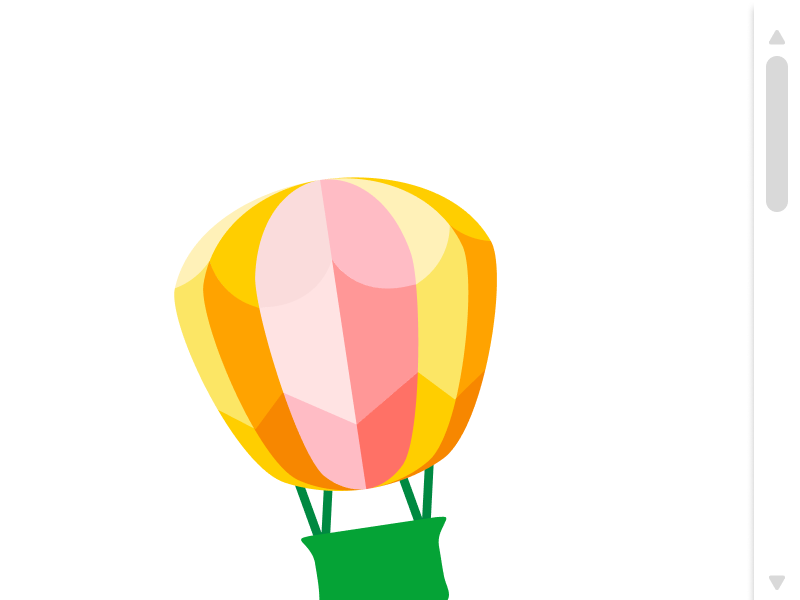
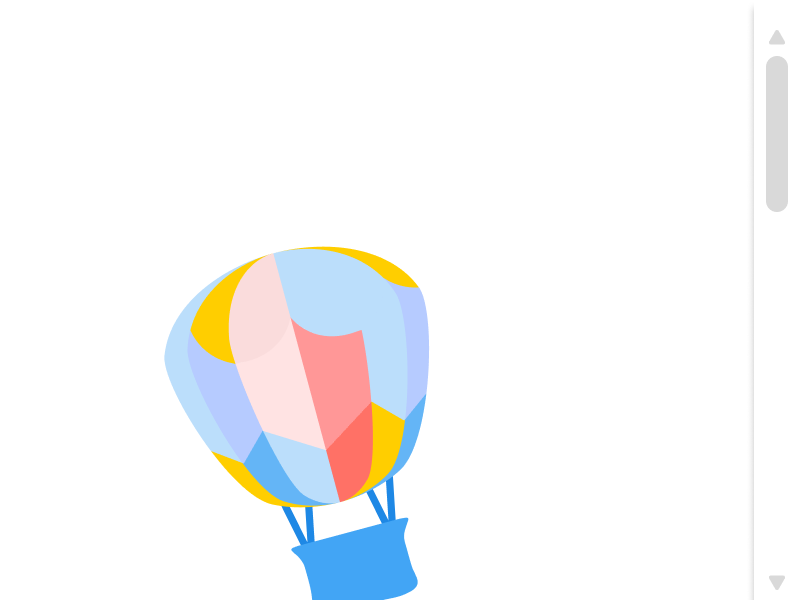
增加项目卡片，统一颜色

Changed region(s): [[0.1875, 0.27, 0.625, 1.0]]

diff --git a/pages/Ref/index.html b/pages/Ref/index.html
@@ -19,15 +19,14 @@
     <br>
     <!-- 上方标签区 -->
     <div role="tablist">
-        <!-- <button role="tab" aria-selected="true" aria-controls="Html" id="Html">Html</button> -->
+        
         <button role="tab" aria-selected="true" aria-controls="Css" id="Css">Css</button>
         <button role="tab" aria-selected="false" aria-controls="Js" id="Js">Js</button>
+        <button role="tab" aria-selected="false" aria-controls="React" id="React">React</button>
+        <button role="tab" aria-selected="false" aria-controls="Deploy" id="React">Deploy</button>
     </div>
     <hr>
-    <!-- 第1个面板 -->
-    <!-- <div id="Html" role="tabpanel" hidden>
-        <h1>nothing</h1>
-    </div> -->
+    
     
     <!-- 第2个面板 -->
     <div id="Css" role="tabpanel">
@@ -98,5 +97,17 @@ div:nth-child(2)
         <h4>位置与变换</h4>
         <pre class="code-card"><code>el.style.transform = `translate(${x}px, ${y}px)`：把元素在二维平面位移 x/y 像素</code></pre>
     </div>
+
+    <!-- 第3个面板 -->
+    <div id="React" role="tabpanel" hidden>
+            <h1>nothing</h1>
+    </div>
+
+    <!-- 第4个面板 -->
+    <div id="Deploy" role="tabpanel" hidden>
+        <h1>nothing</h1>
+    </div>
+
+
     <script src="../../main.js" type="module"></script>
 </html>

diff --git a/index.html b/index.html
@@ -22,5 +22,23 @@
         <p>交互实践请移步 Lab, 文章和杂谈在 Blog 中 。</p>
         <p>希望对你有帮助！</p>
     </div>
-    <br><br>
+    <br>
+    <div class="project-section">
+        <div class="budget-card">
+            <a href="https://www.todolist.youwen.space" target="_blank">
+                <img src="./assets/imgs/project-card/budget.png" alt="预算账本 Logo" class="logo" />
+            </a>
+            <h4>我的预算账本</h4>
+            <a href="https://www.todolist.youwen.space" class="budget-card-url" target="_blank">
+                https://www.todolist.youwen.space
+            </a>
+            <p class="desc">
+                这是一个基于“六个罐子”理念设计的简化版记账工具，使用 React 编写，部署于 GitHub + Vercel，后端使用 Supabase 数据库。<br><br>
+                当前处于第二阶段的优化中，计划实现预算与消费条目的解耦、多用户使用，以及 AI 分析功能。
+            </p>
+        </div>
+    </div>
+    
+
+    
 </html>

diff --git a/css/wheel-pager.css b/css/wheel-pager.css
@@ -72,33 +72,33 @@
 
 /* 不同背景色 */
 .content1-up {
-    background-color: #ffd4ee;
+    background-color: #BBDEFB;
 }
 
 .content2-up {
-    background-color: #F6a2d5;
+    background-color: #64B5F6;
 }
 
 .content3-up {
-    background-color: #Fb7f90;
+    background-color: #42A5F5;
 }
 
 .content4-up {
-    background-color: #e94c7c;
+    background-color: #1E88E5;
 }
 
 .content1-left {
-    background-color: #aad94e;
+    background-color: #1E88E5;
 }
 
 .content2-left {
-    background-color: #8abc19;
+    background-color: #42A5F5;
 }
 
 .content3-left {
-    background-color: #5bb53c;
+    background-color: #64B5F6;
 }
 
 .content4-left {
-    background-color: #00873a;
+    background-color: #BBDEFB;
 }

diff --git a/main.css b/main.css
@@ -134,3 +134,36 @@ a:hover {
   font-weight: 500;
   transition: color 0.18s ease;
 }
+
+/* 项目卡片样式 */
+.budget-card {
+    width: 400px;
+    text-align: center;
+    padding: 20px;
+    border: 1px solid #ddd;
+    border-radius: 12px;
+    display: flex;
+    flex-direction: column;
+}
+
+.budget-card h4{
+    margin-bottom: 5px;
+}
+.logo {
+    width: 120px;
+    height: 120px;
+    border-radius: 20px;
+}
+
+
+.budget-card-url {
+    font-size: 12px;
+    color:red;
+    text-decoration: none;
+}
+
+.desc {
+    font-size: 14px;
+    margin-top: 20px;
+    line-height: 1.6;
+}
